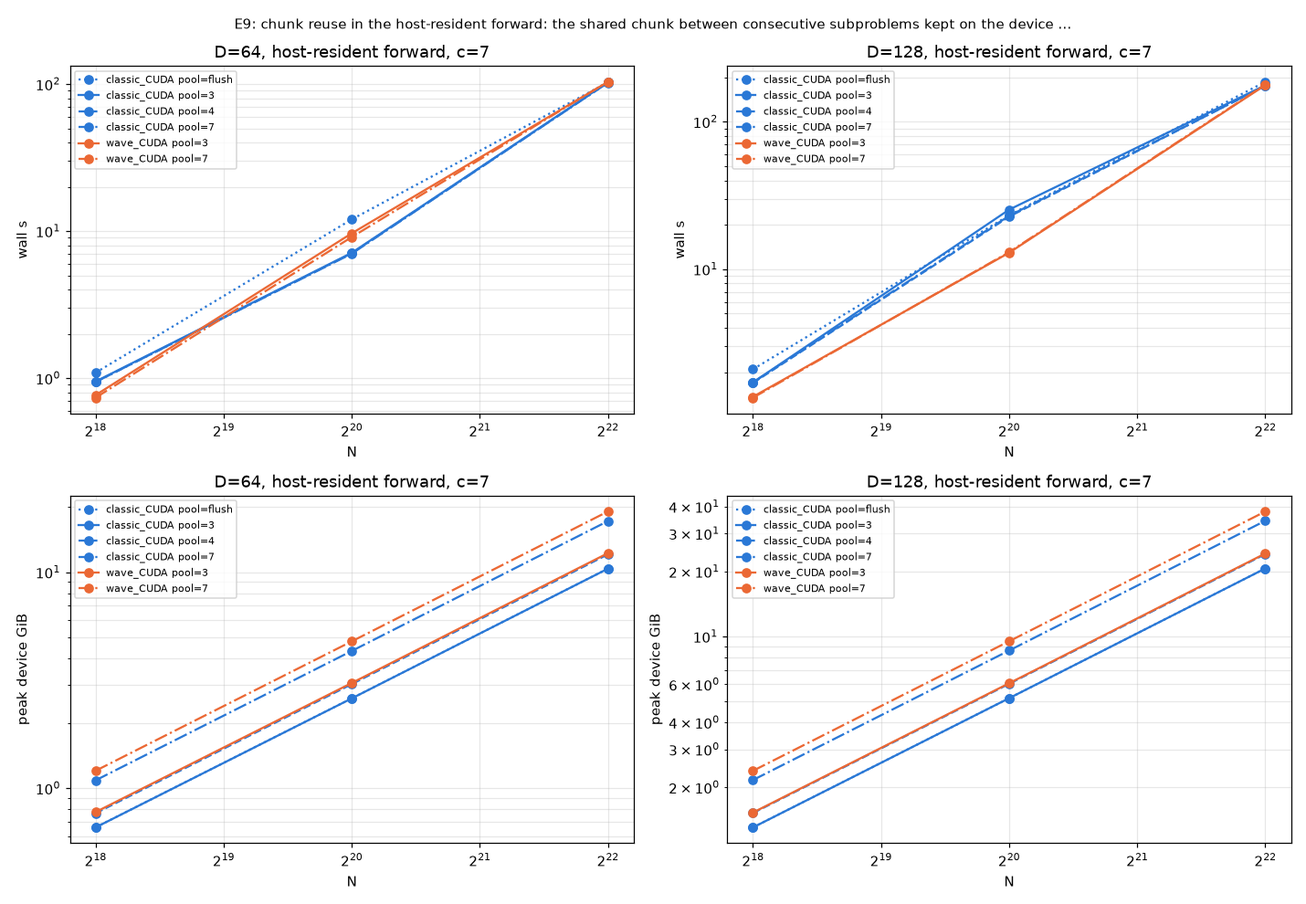
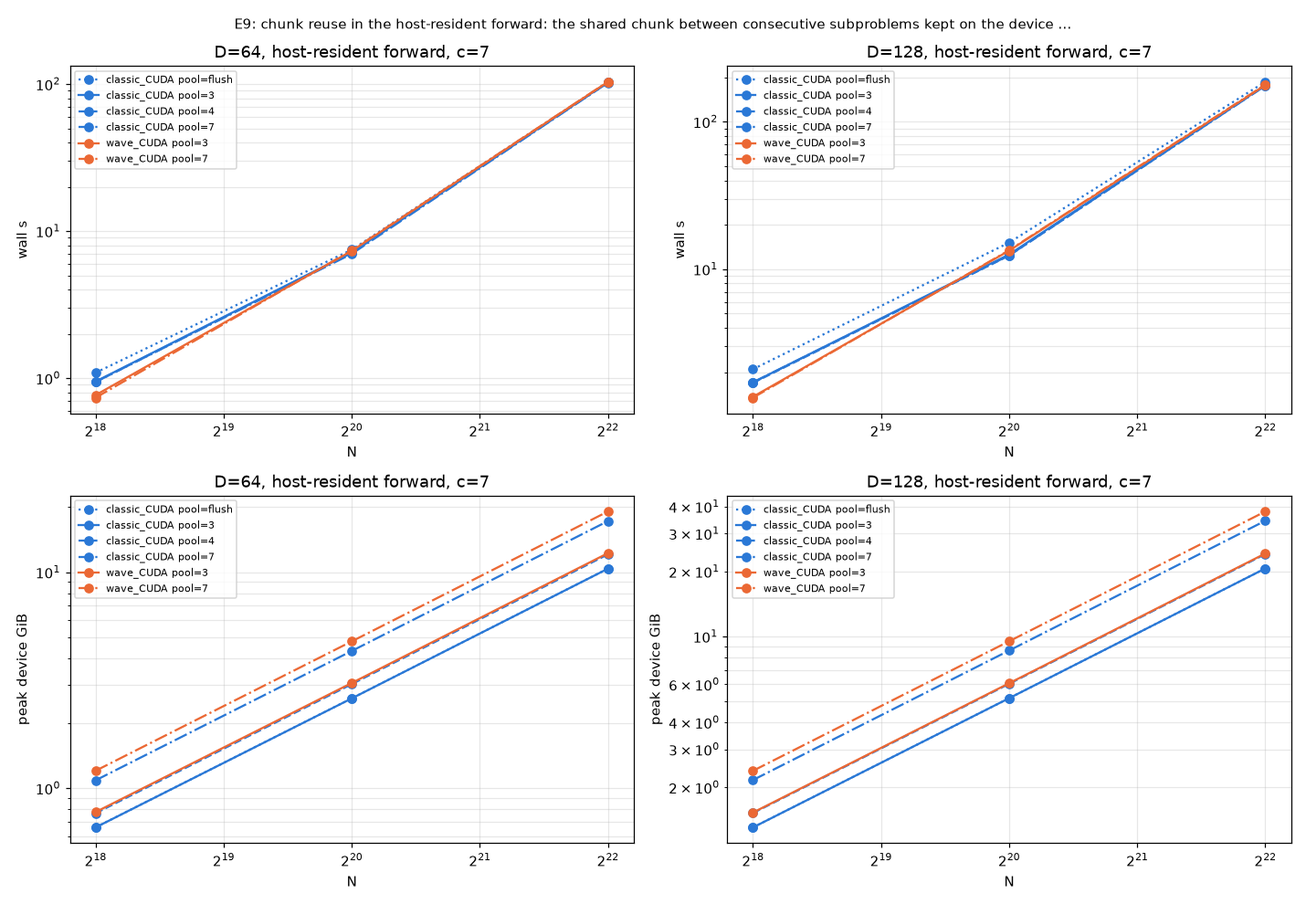
E9 re-timed at 1M (3 runs) and the one-in-flight variant: the D=128 anomaly was job noise; pool vs no pool 4-19% (0-5% at 4M), pool size <= 2%, 1 vs 2 in flight no difference; host-streamed rows vary 7-13% between jobs
The first job's classic D=128 rows at 1M (23-25 s) re-time at 12.4-12.6 s in three consistent runs (1.15x
FA-2, in line with D=64's 1.19x); the 12.0 s flush row at 1M D=64 re-times at 7.47 s. The gpu-test nodes'
host CPUs and memory bandwidth are shared with other jobs, which the host-streamed path feels and the
device-resident path does not (E1 rows reproduce within 1-2% across jobs). README, CHANGELOG, the E9 table
(one-in-flight column) and report updated; the planner's n_par choice for host-resident rows stands (no
measurable difference at 1M).

diff --git a/experiments/v3/readme_tables.py b/experiments/v3/readme_tables.py
@@ -140,13 +140,15 @@ def table_e9(rows, base):
     out = ["Host-resident forward (Q/K/V in pinned host memory, accumulator on the host), c=7, itr=1. Classic engine: chunk pool of 3 / 4 / 7 "
            "slots (3 = the current subproblem's chunks; the pool keeps a chunk the next subproblem shares) against `flush` = no pool, every "
            "subproblem gathered on the host; wave engine: pool of 3 (one wave's chunks) against 7 (all chunks resident, what it sized itself "
-           "to before v3.0). Wall s (x FA-2 where a resident FA-2 row exists) / peak device GiB; classic rows add H2D chunk transfers / hits of 21 loads.", "",
-           "| N | D | classic flush | classic pool 3 | classic pool 4 | classic pool 7 | wave pool 3 | wave pool 7 |", "|---|---|---|---|---|---|---|---|"]
+           "to before v3.0). Wall s (x FA-2 where a resident FA-2 row exists) / peak device GiB; classic rows add H2D chunk transfers / hits of 21 loads. "
+           "The 1M rows are medians of 3 timed runs (job 16500372); the 256K and 4M rows single runs, which for this host-streamed path vary by 7-13% "
+           "between jobs (the gpu-test nodes' host is shared with other jobs), so differences below that at those sizes are not resolved.", "",
+           "| N | D | classic flush | classic pool 3 | classic pool 3, 1 in flight | classic pool 4 | classic pool 7 | wave pool 3 | wave pool 7 |", "|---|---|---|---|---|---|---|---|---|"]
     for N in sorted({r["N"] for r in ex}):
         for D in sorted({r["D"] for r in ex}):
             cells = []
-            for arm, pool in (("classic_CUDA", "pool=flush"), ("classic_CUDA", "pool=3"), ("classic_CUDA", "pool=4"), ("classic_CUDA", "pool=7"),
-                              ("wave_CUDA", "pool=3"), ("wave_CUDA", "pool=7")):
+            for arm, pool in (("classic_CUDA", "pool=flush"), ("classic_CUDA", "pool=3"), ("classic_CUDA", "pool=3-np1"), ("classic_CUDA", "pool=4"),
+                              ("classic_CUDA", "pool=7"), ("wave_CUDA", "pool=3"), ("wave_CUDA", "pool=7")):
                 r = one(ex, arm=arm, N=N, D=D, extra=pool)
                 c_ = cell(r, base)
                 info = (r or {}).get("info") or {}

diff --git a/results/v3/report.md b/results/v3/report.md
@@ -1,6 +1,6 @@
 # Stream-CQSA v3 experiments (experiments/v3/PLAN.md): report
 
-Generated 2026-10-30 20:59 by `experiments/v3/bench.py report` from `results/v3/results.jsonl` (516 rows, 494 configurations; the last row per key). GPUs: NVIDIA A100 80GB PCIe, NVIDIA A100-SXM4-80GB. Jobs: 15966097, 16003186, 16005563, 16007771, 16011674, 16056869, 16057173, 16059599, 16061624, 16061811, 16063609, 16070367, 16072865, 16074280, 16074929, 16075878, 16077768, 16079116, 16079918, 16092420, 16094767, 16113653, 16115186, 16115960, 16116751, 16119471, 16328779, 16333022, 16334737. Modules: cqsa_cuda_v13 / cqsa_native_v2.
+Generated 2026-10-30 21:42 by `experiments/v3/bench.py report` from `results/v3/results.jsonl` (535 rows, 500 configurations; the last row per key). GPUs: NVIDIA A100 80GB PCIe, NVIDIA A100-SXM4-80GB. Jobs: 15966097, 16003186, 16005563, 16007771, 16011674, 16056869, 16057173, 16059599, 16061624, 16061811, 16063609, 16070367, 16072865, 16074280, 16074929, 16075878, 16077768, 16079116, 16079918, 16092420, 16094767, 16113653, 16115186, 16115960, 16116751, 16119471, 16328779, 16333022, 16334737, 16500372, 16500373. Modules: cqsa_cuda_v13 / cqsa_native_v2.
 
 B=1 H=8 causal; wall = median of the timed runs (fwd: one attention() call; bwd: forward + torch.autograd.grad), min alongside; peak = torch.cuda.max_memory_allocated over the call, workspace = peak minus what was resident before it; host = VmHWM delta over the timed runs; /FA-2 and /SDPA = wall ratios against the resident monolithic baselines of the same (node type, N, D, dtype, direction) (the experiment's own first, E1's / E6's otherwise); ref = the reference arm of the row (FA-2 = flash_attn, or SDPA-flash = torch SDPA on its flash backend where flash_attn is not installed); rel = norm-relative error against that arm on the same inputs (grads: the worst of dq/dk/dv); fp64 = norm-relative error on 128 sampled rows against an fp64 reference, with the ratio to the reference arm's own fp64 error on the same rows in parentheses (PLAN.md asks <= 1.2). Every Stream-CQSA row pins itr and c and asserts the decomposition it reports; `[*]` marks an engine other than the series' nominal one (documented routing: the wave backward runs on the CUDA kernel and on device-resident inputs only, so wave_Triton fwd+bwd and host-resident wave backwards run on the classic engine; the wave backward keeps a device accumulator, so wave_CUDA acc=cpu fwd+bwd rows ran with acc=gpu in the backward).
 
@@ -555,36 +555,42 @@ Fits (profile_sweep's: time quadratic in N, peak linear in N; >= 3 points; SXM r
 | N | D | dtype | dir | c | itr | acc | qkv | W | arm | engine that ran | wall s | min s | peak GiB | workspace | host GiB | /FA-2 | /SDPA | ref | rel vs ref | grads | fp64 (x ref) | fp64 dq (x ref) | status |
 |---|---|---|---|---|---|---|---|---|---|---|---|---|---|---|---|---|---|---|---|---|---|---|---|
 | 256K | 64 | fp16 | fwd | 7 | 1 | cpu | host | pool=3 | classic_CUDA | classic/cuda itr=1 n_sub=7 | 0.948 | 0.948 | 0.66 | 0.65 | 2.02 | 2.614 | 2.475 | - | - | - | 2.7e-05 | - | ok |
+| 256K | 64 | fp16 | fwd | 7 | 1 | cpu | host | pool=3-np1 | classic_CUDA | classic/cuda itr=1 n_sub=7 | 0.883 | 0.883 | 0.66 | 0.65 | 2.02 | 2.433 | 2.304 | - | - | - | 2.7e-05 | - | ok |
 | 256K | 64 | fp16 | fwd | 7 | 1 | cpu | host | pool=4 | classic_CUDA | classic/cuda itr=1 n_sub=7 | 0.941 | 0.941 | 0.77 | 0.76 | 2.03 | 2.593 | 2.455 | - | - | - | 2.7e-05 | - | ok |
 | 256K | 64 | fp16 | fwd | 7 | 1 | cpu | host | pool=7 | classic_CUDA | classic/cuda itr=1 n_sub=7 | 0.942 | 0.942 | 1.09 | 1.08 | 2.03 | 2.596 | 2.458 | - | - | - | 2.7e-05 | - | ok |
 | 256K | 64 | fp16 | fwd | 7 | 1 | cpu | host | pool=flush | classic_CUDA | classic/cuda itr=1 n_sub=7 | 1.089 | 1.089 | 0.66 | 0.65 | 2.04 | 3.001 | 2.841 | - | - | - | 2.7e-05 | - | ok |
 | 256K | 64 | fp16 | fwd | 7 | 1 | cpu | host | pool=3 | wave_CUDA | wave/cuda itr=1 n_sub=7 waves=7 | 0.766 | 0.766 | 0.77 | 0.77 | 2.19 | 2.113 | 2.000 | - | - | - | 2.7e-05 | - | ok |
 | 256K | 64 | fp16 | fwd | 7 | 1 | cpu | host | pool=7 | wave_CUDA | wave/cuda itr=1 n_sub=7 waves=7 | 0.736 | 0.736 | 1.20 | 1.20 | 2.22 | 2.029 | 1.921 | - | - | - | 2.7e-05 | - | ok |
 | 256K | 128 | fp16 | fwd | 7 | 1 | cpu | host | pool=3 | classic_CUDA | classic/cuda itr=1 n_sub=7 | 1.708 | 1.708 | 1.30 | 1.29 | 3.70 | - | - | - | - | - | 2.7e-05 | - | ok |
+| 256K | 128 | fp16 | fwd | 7 | 1 | cpu | host | pool=3-np1 | classic_CUDA | classic/cuda itr=1 n_sub=7 | 1.582 | 1.582 | 1.30 | 1.29 | 3.70 | - | - | - | - | - | 2.7e-05 | - | ok |
 | 256K | 128 | fp16 | fwd | 7 | 1 | cpu | host | pool=4 | classic_CUDA | classic/cuda itr=1 n_sub=7 | 1.694 | 1.694 | 1.52 | 1.51 | 3.70 | - | - | - | - | - | 2.7e-05 | - | ok |
 | 256K | 128 | fp16 | fwd | 7 | 1 | cpu | host | pool=7 | classic_CUDA | classic/cuda itr=1 n_sub=7 | 1.709 | 1.709 | 2.16 | 2.15 | 3.77 | - | - | - | - | - | 2.7e-05 | - | ok |
 | 256K | 128 | fp16 | fwd | 7 | 1 | cpu | host | pool=flush | classic_CUDA | classic/cuda itr=1 n_sub=7 | 2.097 | 2.097 | 1.30 | 1.29 | 3.77 | - | - | - | - | - | 2.7e-05 | - | ok |
 | 256K | 128 | fp16 | fwd | 7 | 1 | cpu | host | pool=3 | wave_CUDA | wave/cuda itr=1 n_sub=7 waves=7 | 1.364 | 1.364 | 1.53 | 1.52 | 4.08 | - | - | - | - | - | 2.7e-05 | - | ok |
 | 256K | 128 | fp16 | fwd | 7 | 1 | cpu | host | pool=7 | wave_CUDA | wave/cuda itr=1 n_sub=7 waves=7 | 1.345 | 1.345 | 2.38 | 2.38 | 4.08 | - | - | - | - | - | 2.7e-05 | - | ok |
-| 1M | 64 | fp16 | fwd | 7 | 1 | cpu | host | pool=3 | classic_CUDA | classic/cuda itr=1 n_sub=7 | 7.116 | 7.116 | 2.60 | 2.60 | 9.99 | 1.180 | 1.126 | - | - | - | 1.6e-05 | - | ok |
-| 1M | 64 | fp16 | fwd | 7 | 1 | cpu | host | pool=4 | classic_CUDA | classic/cuda itr=1 n_sub=7 | 7.067 | 7.067 | 3.03 | 3.02 | 9.99 | 1.172 | 1.118 | - | - | - | 1.6e-05 | - | ok |
-| 1M | 64 | fp16 | fwd | 7 | 1 | cpu | host | pool=7 | classic_CUDA | classic/cuda itr=1 n_sub=7 | 7.023 | 7.023 | 4.32 | 4.31 | 10.00 | 1.164 | 1.111 | - | - | - | 1.6e-05 | - | ok |
-| 1M | 64 | fp16 | fwd | 7 | 1 | cpu | host | pool=flush | classic_CUDA | classic/cuda itr=1 n_sub=7 | 12.016 | 12.016 | 2.61 | 2.60 | 9.97 | 1.992 | 1.902 | - | - | - | 1.6e-05 | - | ok |
-| 1M | 64 | fp16 | fwd | 7 | 1 | cpu | host | pool=3 | wave_CUDA | wave/cuda itr=1 n_sub=7 waves=7 | 9.659 | 9.659 | 3.07 | 3.06 | 8.13 | 1.601 | 1.529 | - | - | - | 1.6e-05 | - | ok |
-| 1M | 64 | fp16 | fwd | 7 | 1 | cpu | host | pool=7 | wave_CUDA | wave/cuda itr=1 n_sub=7 waves=7 | 9.107 | 9.107 | 4.78 | 4.78 | 8.12 | 1.510 | 1.441 | - | - | - | 1.6e-05 | - | ok |
-| 1M | 128 | fp16 | fwd | 7 | 1 | cpu | host | pool=3 | classic_CUDA | classic/cuda itr=1 n_sub=7 | 25.330 | 25.330 | 5.18 | 5.17 | 14.38 | 2.330 | 2.189 | - | - | - | 1.6e-05 | - | ok |
-| 1M | 128 | fp16 | fwd | 7 | 1 | cpu | host | pool=4 | classic_CUDA | classic/cuda itr=1 n_sub=7 | 22.714 | 22.714 | 6.04 | 6.03 | 14.39 | 2.090 | 1.963 | - | - | - | 1.6e-05 | - | ok |
-| 1M | 128 | fp16 | fwd | 7 | 1 | cpu | host | pool=7 | classic_CUDA | classic/cuda itr=1 n_sub=7 | 23.007 | 23.007 | 8.61 | 8.60 | 14.41 | 2.117 | 1.988 | - | - | - | 1.6e-05 | - | ok |
-| 1M | 128 | fp16 | fwd | 7 | 1 | cpu | host | pool=flush | classic_CUDA | classic/cuda itr=1 n_sub=7 | 23.187 | 23.187 | 5.17 | 5.17 | 14.38 | 2.133 | 2.003 | - | - | - | 1.6e-05 | - | ok |
-| 1M | 128 | fp16 | fwd | 7 | 1 | cpu | host | pool=3 | wave_CUDA | wave/cuda itr=1 n_sub=7 waves=7 | 12.930 | 12.930 | 6.07 | 6.06 | 15.63 | 1.189 | 1.117 | - | - | - | 1.6e-05 | - | ok |
-| 1M | 128 | fp16 | fwd | 7 | 1 | cpu | host | pool=7 | wave_CUDA | wave/cuda itr=1 n_sub=7 waves=7 | 13.050 | 13.050 | 9.50 | 9.49 | 15.63 | 1.201 | 1.128 | - | - | - | 1.6e-05 | - | ok |
+| 1M | 64 | fp16 | fwd | 7 | 1 | cpu | host | pool=3 | classic_CUDA | classic/cuda itr=1 n_sub=7 | 7.162 | 7.151 | 2.60 | 2.60 | 10.01 | 1.187 | 1.133 | - | - | - | 1.6e-05 | - | ok |
+| 1M | 64 | fp16 | fwd | 7 | 1 | cpu | host | pool=3-np1 | classic_CUDA | classic/cuda itr=1 n_sub=7 | 7.171 | 7.167 | 2.60 | 2.60 | 7.51 | 1.189 | 1.135 | - | - | - | 1.6e-05 | - | ok |
+| 1M | 64 | fp16 | fwd | 7 | 1 | cpu | host | pool=4 | classic_CUDA | classic/cuda itr=1 n_sub=7 | 7.107 | 7.094 | 3.03 | 3.02 | 10.03 | 1.178 | 1.125 | - | - | - | 1.6e-05 | - | ok |
+| 1M | 64 | fp16 | fwd | 7 | 1 | cpu | host | pool=7 | classic_CUDA | classic/cuda itr=1 n_sub=7 | 7.003 | 6.981 | 4.32 | 4.31 | 10.00 | 1.161 | 1.108 | - | - | - | 1.6e-05 | - | ok |
+| 1M | 64 | fp16 | fwd | 7 | 1 | cpu | host | pool=flush | classic_CUDA | classic/cuda itr=1 n_sub=7 | 7.474 | 7.435 | 2.61 | 2.60 | 9.97 | 1.239 | 1.183 | - | - | - | 1.6e-05 | - | ok |
+| 1M | 64 | fp16 | fwd | 7 | 1 | cpu | host | pool=3 | wave_CUDA | wave/cuda itr=1 n_sub=7 waves=7 | 7.333 | 7.263 | 3.07 | 3.06 | 8.13 | 1.216 | 1.160 | - | - | - | 1.6e-05 | - | ok |
+| 1M | 64 | fp16 | fwd | 7 | 1 | cpu | host | pool=7 | wave_CUDA | wave/cuda itr=1 n_sub=7 waves=7 | 7.391 | 7.322 | 4.78 | 4.78 | 8.13 | 1.225 | 1.170 | - | - | - | 1.6e-05 | - | ok |
+| 1M | 128 | fp16 | fwd | 7 | 1 | cpu | host | pool=3 | classic_CUDA | classic/cuda itr=1 n_sub=7 | 12.583 | 12.550 | 5.18 | 5.17 | 14.42 | 1.158 | 1.087 | - | - | - | 1.6e-05 | - | ok |
+| 1M | 128 | fp16 | fwd | 7 | 1 | cpu | host | pool=3-np1 | classic_CUDA | classic/cuda itr=1 n_sub=7 | 12.568 | 12.547 | 5.18 | 5.17 | 14.44 | 1.156 | 1.086 | - | - | - | 1.6e-05 | - | ok |
+| 1M | 128 | fp16 | fwd | 7 | 1 | cpu | host | pool=4 | classic_CUDA | classic/cuda itr=1 n_sub=7 | 12.373 | 12.325 | 6.04 | 6.03 | 14.41 | 1.138 | 1.069 | - | - | - | 1.6e-05 | - | ok |
+| 1M | 128 | fp16 | fwd | 7 | 1 | cpu | host | pool=7 | classic_CUDA | classic/cuda itr=1 n_sub=7 | 12.411 | 12.334 | 8.61 | 8.60 | 14.44 | 1.142 | 1.072 | - | - | - | 1.6e-05 | - | ok |
+| 1M | 128 | fp16 | fwd | 7 | 1 | cpu | host | pool=flush | classic_CUDA | classic/cuda itr=1 n_sub=7 | 15.144 | 15.121 | 5.17 | 5.17 | 14.45 | 1.393 | 1.308 | - | - | - | 1.6e-05 | - | ok |
+| 1M | 128 | fp16 | fwd | 7 | 1 | cpu | host | pool=3 | wave_CUDA | wave/cuda itr=1 n_sub=7 waves=7 | 13.346 | 13.267 | 6.07 | 6.06 | 15.83 | 1.228 | 1.153 | - | - | - | 1.6e-05 | - | ok |
+| 1M | 128 | fp16 | fwd | 7 | 1 | cpu | host | pool=7 | wave_CUDA | wave/cuda itr=1 n_sub=7 waves=7 | 13.444 | 13.278 | 9.50 | 9.49 | 15.73 | 1.237 | 1.162 | - | - | - | 1.6e-05 | - | ok |
 | 4M | 64 | fp16 | fwd | 7 | 1 | cpu | host | pool=3 | classic_CUDA | classic/cuda itr=1 n_sub=7 | 102.763 | 102.763 | 10.38 | 10.37 | 31.99 | 1.052 | 1.009 | - | - | - | 1.9e-05 | - | ok |
+| 4M | 64 | fp16 | fwd | 7 | 1 | cpu | host | pool=3-np1 | classic_CUDA | classic/cuda itr=1 n_sub=7 | 113.687 | 113.687 | 10.38 | 10.37 | 31.98 | 1.164 | 1.116 | - | - | - | 1.9e-05 | - | ok |
 | 4M | 64 | fp16 | fwd | 7 | 1 | cpu | host | pool=4 | classic_CUDA | classic/cuda itr=1 n_sub=7 | 102.366 | 102.366 | 12.10 | 12.09 | 31.98 | 1.048 | 1.005 | - | - | - | 1.9e-05 | - | ok |
 | 4M | 64 | fp16 | fwd | 7 | 1 | cpu | host | pool=7 | classic_CUDA | classic/cuda itr=1 n_sub=7 | 102.162 | 102.162 | 17.24 | 17.23 | 31.99 | 1.046 | 1.003 | - | - | - | 1.9e-05 | - | ok |
 | 4M | 64 | fp16 | fwd | 7 | 1 | cpu | host | pool=flush | classic_CUDA | classic/cuda itr=1 n_sub=7 | 102.727 | 102.727 | 10.38 | 10.37 | 31.99 | 1.052 | 1.008 | - | - | - | 1.9e-05 | - | ok |
 | 4M | 64 | fp16 | fwd | 7 | 1 | cpu | host | pool=3 | wave_CUDA | wave/cuda itr=1 n_sub=7 waves=7 | 103.461 | 103.461 | 12.25 | 12.24 | 33.98 | 1.059 | 1.016 | - | - | - | 1.9e-05 | - | ok |
 | 4M | 64 | fp16 | fwd | 7 | 1 | cpu | host | pool=7 | wave_CUDA | wave/cuda itr=1 n_sub=7 waves=7 | 103.686 | 103.686 | 19.10 | 19.10 | 33.98 | 1.062 | 1.018 | - | - | - | 1.9e-05 | - | ok |
 | 4M | 128 | fp16 | fwd | 7 | 1 | cpu | host | pool=3 | classic_CUDA | classic/cuda itr=1 n_sub=7 | 176.697 | 176.697 | 20.67 | 20.66 | 62.71 | - | - | - | - | - | 1.9e-05 | - | ok |
+| 4M | 128 | fp16 | fwd | 7 | 1 | cpu | host | pool=3-np1 | classic_CUDA | classic/cuda itr=1 n_sub=7 | 200.311 | 200.311 | 20.67 | 20.66 | 62.71 | - | - | - | - | - | 1.9e-05 | - | ok |
 | 4M | 128 | fp16 | fwd | 7 | 1 | cpu | host | pool=4 | classic_CUDA | classic/cuda itr=1 n_sub=7 | 175.644 | 175.644 | 24.10 | 24.09 | 62.71 | - | - | - | - | - | 1.9e-05 | - | ok |
 | 4M | 128 | fp16 | fwd | 7 | 1 | cpu | host | pool=7 | classic_CUDA | classic/cuda itr=1 n_sub=7 | 175.221 | 175.221 | 34.39 | 34.38 | 62.71 | - | - | - | - | - | 1.9e-05 | - | ok |
 | 4M | 128 | fp16 | fwd | 7 | 1 | cpu | host | pool=flush | classic_CUDA | classic/cuda itr=1 n_sub=7 | 186.531 | 186.531 | 20.67 | 20.66 | 62.71 | - | - | - | - | - | 1.9e-05 | - | ok |

diff --git a/README.md b/README.md
@@ -222,7 +222,7 @@ FlashAttention-2 call and one SDPA call on the same device-resident tensors.
 | **E5** wave budget | 5 to 73 waves per call at c=73 | done, 20 rows | 1% of time across the range, 2.2x the memory |
 | **E6** precision, head dim | fp16 / bf16 x D 64 / 128 at 1M | done, 44 rows; the Triton D=128 backward excluded as a finding | bf16 costs what fp16 costs; D=128 0.93-0.99x FA-2's D=128 on the CUDA series |
 | **E8** the default's trade | device Q/K/V with the host accumulator vs E1 across N | done, 16 rows | 1.30x / 1.16x / 1.06x / 1.03x of the device-accumulator time at 512K / 1M / 2M / 4M forward, 1.19x / 1.11x / 1.06x / 1.01x forward+backward, for 40% less device memory at every N |
-| **E9** chunk reuse (host-resident) | the classic engine's device chunk pool (3 / 4 / 7 slots) against flush-and-reload, the wave engine's pool at one wave's chunks against all chunks resident, at 256K / 1M / 4M x D 64 / 128 | done, 36 rows (jobs 16333022, 16334737; the 256K / 1M rows re-timed with 3 runs: job 16499791) | the pool matters (the no-pool host gather costs 13-41%), its size barely does (3 vs 7 slots: <= 1.4% of time for 1.7-7 GiB more device memory); the wave pool at 3 slots costs <= 6% at <= 1M and 0% at 4M for 36-45% less memory, and is the default now |
+| **E9** chunk reuse (host-resident) | the classic engine's device chunk pool (3 / 4 / 7 slots, 1 or 2 in flight) against flush-and-reload, the wave engine's pool at one wave's chunks against all chunks resident, at 256K / 1M / 4M x D 64 / 128 | done, 42 rows (jobs 16333022, 16334737, 16500372 with 3 runs at 1M, 16500373) | the pool matters (the no-pool host gather costs 4-19%, 0-5% at 4M), its size barely does (3 vs 7 slots: <= 2% of time for 1.7-7 GiB more device memory); the wave pool at 3 slots is within 1% at 1M-4M for 36-45% less memory and is the default now; host-streamed rows vary 7-13% between jobs |
 | **E7** automatic mode vs out-of-core rivals | `attention()` with nothing pinned under device budgets, against two rectangular rivals | not run | measures the automatic path, which the paper does not present (the pinned rows above are the decomposition's cost); the v2.2.3 run of this grid is in `results/ooc_rivals/report.md` |
 
 ### Headline (from E1 and E4; A100-SXM4-80GB, fp16, B=1 H=8 D=64, causal, Q/K/V on the device)
@@ -510,28 +510,31 @@ all c chunks resident nothing is re-sent; until v3.0 it sized that pool from the
 card at 1M meant all 7 chunks (3 GiB of Q/K/V) and is why its host-resident memory exceeded FA-2's in E2. It
 now holds one wave's chunks (`pool_slots=` overrides).
 
-What E9 measured: the pool against no pool (every subproblem gathered on the host) is worth 13-19% at 256K and
-up to 41% at 1M (D=64), nothing at 4M where the gather hides under the kernels; beyond the minimal pool, more
-slots buy at most 1.4% of time (1M: 7.12 / 7.07 / 7.02 s for 3 / 4 / 7 slots) for 1.7 GiB (1M) to 7 GiB (4M)
-more device memory, because a chunk transfer is about 27 ms per 0.43 GiB at 1M and the kernels scale as N^2
-while the transfers scale as N. The wave engine's 3-slot pool costs 4-6% at 256K-1M (D=64), under 1% at D=128
-and nothing at 4M, for 36-45% less device memory. Both engines therefore default to the minimal pool. One open
-observation: the classic engine's host-resident forward at D=128, 1M is 23 s (2.1x FA-2) in every pool setting
-where the wave engine's is 12.9 s (1.2x) and the classic engine itself is 1.2x at D=64 and 4M; the re-timing
-job and a run with one subproblem in flight will say whether it is the two-in-flight schedule the planner chose
-for these rows.
+What E9 measured (the 1M rows are medians of 3 runs; the 256K and 4M rows single runs): the pool against no
+pool (every subproblem gathered on the host) is worth 13-19% at 256K, 4% (D=64) to 17% (D=128) at 1M, and 0%
+(D=64) to 5% (D=128) at 4M, where the gather hides under the kernels. Beyond the minimal pool, more slots buy
+at most 2% of time (1M, D=64: 7.16 / 7.11 / 7.00 s for 3 / 4 / 7 slots; D=128: 12.58 / 12.37 / 12.41 s) for 1.7
+GiB (1M) to 7 GiB (4M) more device memory: a chunk transfer is about 27 ms per 0.43 GiB at 1M and the transfers
+scale as N while the kernels scale as N^2. One or two subproblems in flight make no difference at 1M (7.17 vs
+7.16 s). The wave engine's 3-slot pool is within 1% of the 7-slot pool at 1M and 4M and 4% behind at 256K, for
+36-45% less device memory. Both engines therefore default to the minimal pool. A measurement caveat this
+experiment exposed: the host-streamed rows vary by 7-13% between jobs (the first job's classic D=128 rows at 1M
+were 23 s against 12.6 s on re-timing, and the 4M one-in-flight rows run in a later job are 11-13% slower than
+their same-configuration neighbours), because the gpu-test nodes' host CPUs and memory bandwidth are shared with
+other jobs; the device-resident rows reproduce within 1-2% across jobs. Host-resident numbers below the 10% level
+therefore need repeated runs, and E2's single-run rows carry that uncertainty.
 
 <!-- v3-tables:E9 -->
-Host-resident forward (Q/K/V in pinned host memory, accumulator on the host), c=7, itr=1. Classic engine: chunk pool of 3 / 4 / 7 slots (3 = the current subproblem's chunks; the pool keeps a chunk the next subproblem shares) against `flush` = no pool, every subproblem gathered on the host; wave engine: pool of 3 (one wave's chunks) against 7 (all chunks resident, what it sized itself to before v3.0). Wall s (x FA-2 where a resident FA-2 row exists) / peak device GiB; classic rows add H2D chunk transfers / hits of 21 loads.
+Host-resident forward (Q/K/V in pinned host memory, accumulator on the host), c=7, itr=1. Classic engine: chunk pool of 3 / 4 / 7 slots (3 = the current subproblem's chunks; the pool keeps a chunk the next subproblem shares) against `flush` = no pool, every subproblem gathered on the host; wave engine: pool of 3 (one wave's chunks) against 7 (all chunks resident, what it sized itself to before v3.0). Wall s (x FA-2 where a resident FA-2 row exists) / peak device GiB; classic rows add H2D chunk transfers / hits of 21 loads. The 1M rows are medians of 3 timed runs (job 16500372); the 256K and 4M rows single runs, which for this host-streamed path vary by 7-13% between jobs (the gpu-test nodes' host is shared with other jobs), so differences below that at those sizes are not resolved.
 
-| N | D | classic flush | classic pool 3 | classic pool 4 | classic pool 7 | wave pool 3 | wave pool 7 |
-|---|---|---|---|---|---|---|---|
-| 256K | 64 | 1.09 s (3.00x) / 0.7 GiB | 0.95 s (2.61x) / 0.7 GiB / 15t 6h | 0.94 s (2.59x) / 0.8 GiB / 10t 11h | 0.94 s (2.60x) / 1.1 GiB / 7t 14h | 0.77 s (2.11x) / 0.8 GiB | 0.74 s (2.03x) / 1.2 GiB |
-| 256K | 128 | 2.10 s / 1.3 GiB | 1.71 s / 1.3 GiB / 15t 6h | 1.69 s / 1.5 GiB / 10t 11h | 1.71 s / 2.2 GiB / 7t 14h | 1.36 s / 1.5 GiB | 1.34 s / 2.4 GiB |
-| 1M | 64 | 12.02 s (1.99x) / 2.6 GiB | 7.12 s (1.18x) / 2.6 GiB / 15t 6h | 7.07 s (1.17x) / 3.0 GiB / 10t 11h | 7.02 s (1.16x) / 4.3 GiB / 7t 14h | 9.66 s (1.60x) / 3.1 GiB | 9.11 s (1.51x) / 4.8 GiB |
-| 1M | 128 | 23.19 s (2.13x) / 5.2 GiB | 25.33 s (2.33x) / 5.2 GiB / 15t 6h | 22.71 s (2.09x) / 6.0 GiB / 10t 11h | 23.01 s (2.12x) / 8.6 GiB / 7t 14h | 12.93 s (1.19x) / 6.1 GiB | 13.05 s (1.20x) / 9.5 GiB |
-| 4M | 64 | 102.73 s (1.05x) / 10.4 GiB | 102.76 s (1.05x) / 10.4 GiB / 15t 6h | 102.37 s (1.05x) / 12.1 GiB / 10t 11h | 102.16 s (1.05x) / 17.2 GiB / 7t 14h | 103.46 s (1.06x) / 12.2 GiB | 103.69 s (1.06x) / 19.1 GiB |
-| 4M | 128 | 186.53 s / 20.7 GiB | 176.70 s / 20.7 GiB / 15t 6h | 175.64 s / 24.1 GiB / 10t 11h | 175.22 s / 34.4 GiB / 7t 14h | 177.07 s / 24.2 GiB | 178.27 s / 38.0 GiB |
+| N | D | classic flush | classic pool 3 | classic pool 3, 1 in flight | classic pool 4 | classic pool 7 | wave pool 3 | wave pool 7 |
+|---|---|---|---|---|---|---|---|---|
+| 256K | 64 | 1.09 s (3.00x) / 0.7 GiB | 0.95 s (2.61x) / 0.7 GiB / 15t 6h | 0.88 s (2.43x) / 0.7 GiB / 15t 6h | 0.94 s (2.59x) / 0.8 GiB / 10t 11h | 0.94 s (2.60x) / 1.1 GiB / 7t 14h | 0.77 s (2.11x) / 0.8 GiB | 0.74 s (2.03x) / 1.2 GiB |
+| 256K | 128 | 2.10 s / 1.3 GiB | 1.71 s / 1.3 GiB / 15t 6h | 1.58 s / 1.3 GiB / 15t 6h | 1.69 s / 1.5 GiB / 10t 11h | 1.71 s / 2.2 GiB / 7t 14h | 1.36 s / 1.5 GiB | 1.34 s / 2.4 GiB |
+| 1M | 64 | 7.47 s (1.24x) / 2.6 GiB (median of 3) | 7.16 s (1.19x) / 2.6 GiB / 15t 6h (median of 3) | 7.17 s (1.19x) / 2.6 GiB / 15t 6h (median of 3) | 7.11 s (1.18x) / 3.0 GiB / 10t 11h (median of 3) | 7.00 s (1.16x) / 4.3 GiB / 7t 14h (median of 3) | 7.33 s (1.22x) / 3.1 GiB (median of 3) | 7.39 s (1.23x) / 4.8 GiB (median of 3) |
+| 1M | 128 | 15.14 s (1.39x) / 5.2 GiB (median of 3) | 12.58 s (1.16x) / 5.2 GiB / 15t 6h (median of 3) | 12.57 s (1.16x) / 5.2 GiB / 15t 6h (median of 3) | 12.37 s (1.14x) / 6.0 GiB / 10t 11h (median of 3) | 12.41 s (1.14x) / 8.6 GiB / 7t 14h (median of 3) | 13.35 s (1.23x) / 6.1 GiB (median of 3) | 13.44 s (1.24x) / 9.5 GiB (median of 3) |
+| 4M | 64 | 102.73 s (1.05x) / 10.4 GiB | 102.76 s (1.05x) / 10.4 GiB / 15t 6h | 113.69 s (1.16x) / 10.4 GiB / 15t 6h | 102.37 s (1.05x) / 12.1 GiB / 10t 11h | 102.16 s (1.05x) / 17.2 GiB / 7t 14h | 103.46 s (1.06x) / 12.2 GiB | 103.69 s (1.06x) / 19.1 GiB |
+| 4M | 128 | 186.53 s / 20.7 GiB | 176.70 s / 20.7 GiB / 15t 6h | 200.31 s / 20.7 GiB / 15t 6h | 175.64 s / 24.1 GiB / 10t 11h | 175.22 s / 34.4 GiB / 7t 14h | 177.07 s / 24.2 GiB | 178.27 s / 38.0 GiB |
 <!-- /v3-tables:E9 -->
 
 ### Where the memory goes

diff --git a/CHANGELOG.md b/CHANGELOG.md
@@ -22,9 +22,9 @@
 * Wave engine, host-resident inputs: the device chunk pool holds one wave's chunks (`l` per subproblem, the
   subproblems per wave from the wave budget W; `pool_slots=` overrides, also through `attention()`). It used to
   take what the free memory allowed, which at 1M on an 80 GB card was all 7 chunks: Q/K/V fully resident on
-  the device, 4.8 GiB instead of 3.1 (E9 measured the larger pool at <= 6% of time at <= 1M and 0% at 4M). The
-  classic engine's pool keeps `min(c, n_par * l)` slots as before (E9: 3 vs 7 slots is <= 1.4% of time for 1.7-7
-  GiB; the pool itself against a host gather of every subproblem is worth 13-41%).
+  the device, 4.8 GiB instead of 3.1 (E9: the larger pool is within 1% of time at 1M-4M and 4% ahead at 256K).
+  The classic engine's pool keeps `min(c, n_par * l)` slots as before (E9: 3 vs 7 slots is <= 2% of time for
+  1.7-7 GiB; the pool itself against a host gather of every subproblem is worth 4-19%, 0-5% at 4M).
 * Cost model refit on the v3 rows (`benchmarks/v3/refit_cost_model.py`, `results/v3/cost_model_a100_sxm4_80gb.json`,
   shipped as the defaults): kernel_ratio 0.95 (the v2 calibration said 1.83); the live pair count is the whole
   problem's at every depth (the pair sets partition; the per-subproblem count overstated itr=2 by 29%, so the

diff --git a/results/v3/STATUS.md b/results/v3/STATUS.md
@@ -1,6 +1,6 @@
-# results/v3 status (2026-10-30 20:59)
+# results/v3 status (2026-10-30 21:42)
 
-`/scratch/gpfs/AKEY/yb2807/Stream-CQSA-v3/results/v3/results.jsonl`: 494 distinct configurations recorded (last row per key).
+`/scratch/gpfs/AKEY/yb2807/Stream-CQSA-v3/results/v3/results.jsonl`: 500 distinct configurations recorded (last row per key).
 
 | experiment | part | planned | ok | oom | error | missing | jobs |
 |---|---|---|---|---|---|---|---|
@@ -17,7 +17,7 @@
 | E4 | all | 32 | 32 | 0 | 0 | 0 | 16003186, 16005563, 16116751 |
 | E5 | all | 20 | 20 | 0 | 0 | 0 | 16070367, 16072865 |
 | E6 | all | 44 | 44 | 0 | 0 | 0 | 16005563, 16007771, 16011674, 16092420, 16094767 |
-| E9 | all | 36 | 36 | 0 | 0 | 0 | 16333022, 16334737 |
+| E9 | all | 42 | 42 | 0 | 0 | 0 | 16333022, 16334737, 16500372, 16500373 |
 | E8 | all | 16 | 16 | 0 | 0 | 0 | 16116751, 16119471 |
 
 **Missing rows: 0**
